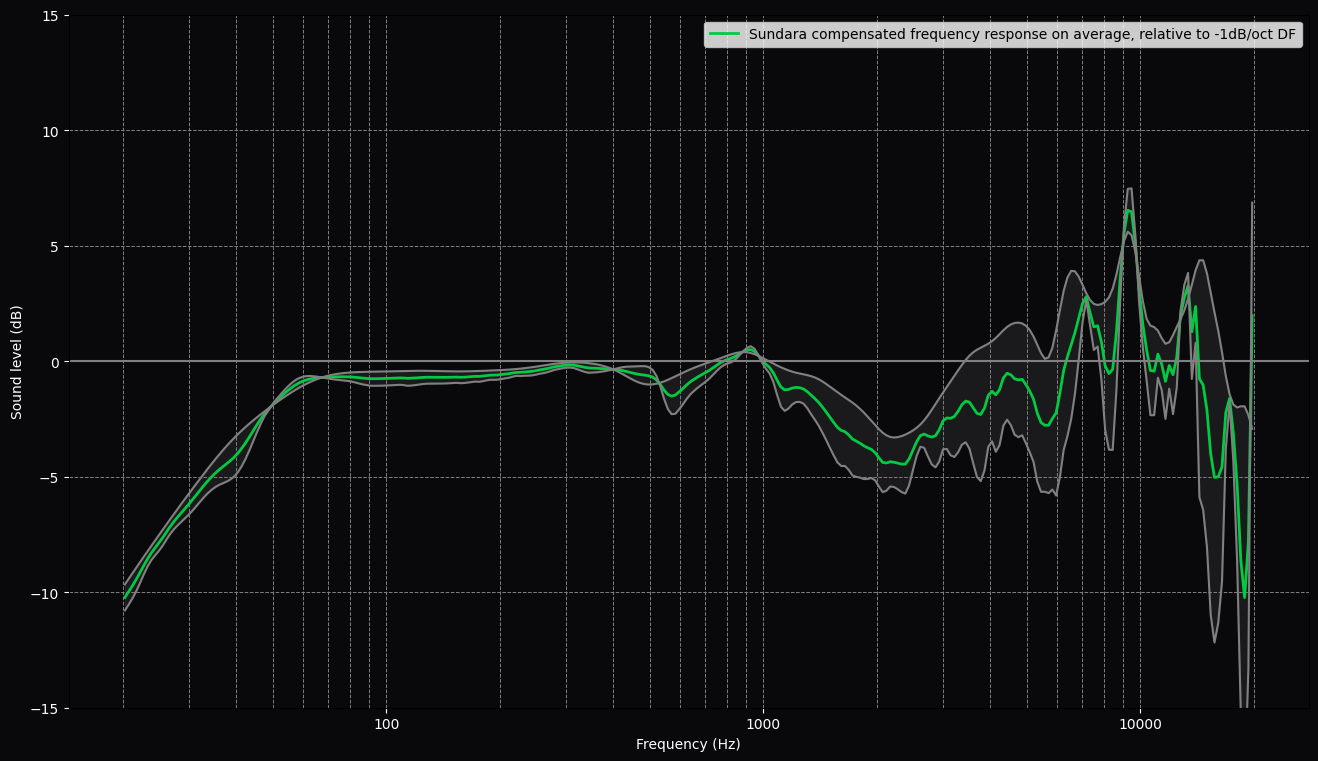
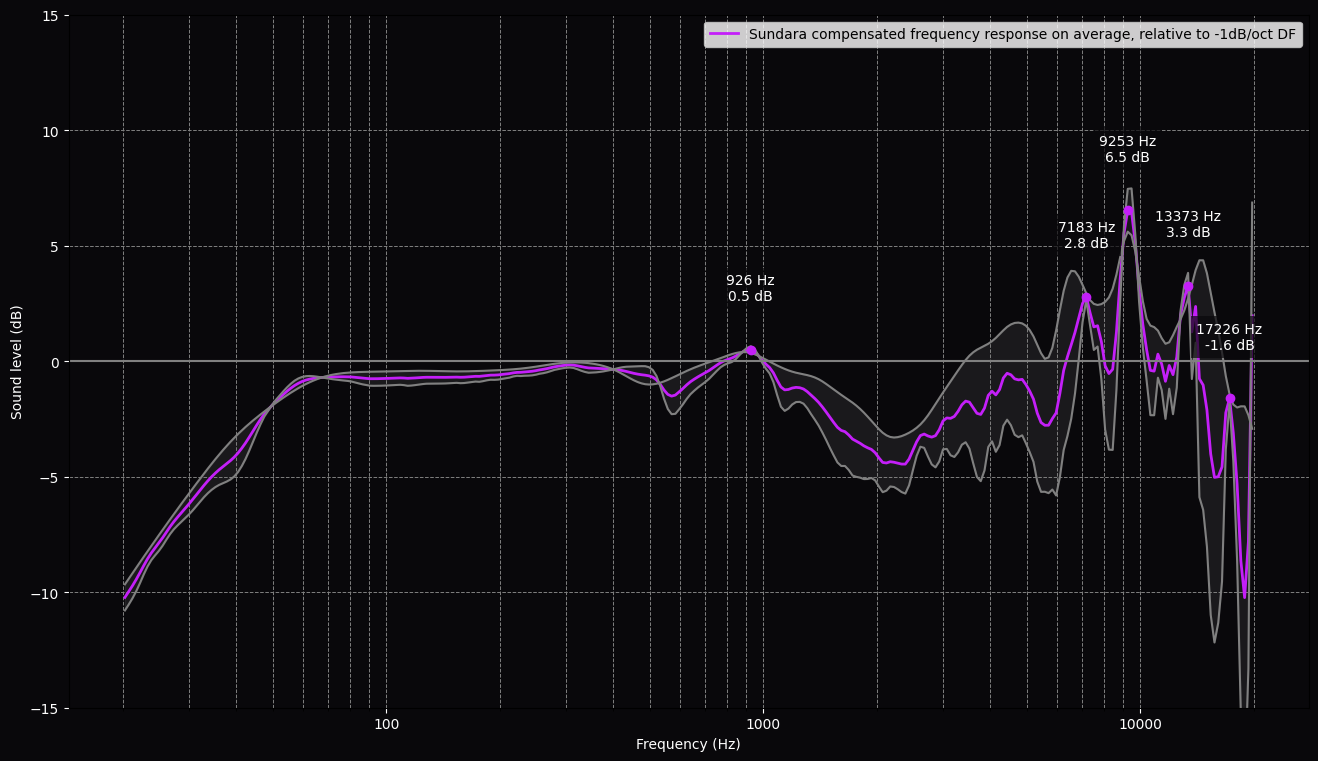
Add peak frequencies to the frequency response plot

diff --git a/app/plot.py b/app/plot.py
@@ -4,6 +4,7 @@ import matplotlib.ticker as ticker
 from random import uniform, random
 import colorsys
 from typing import Tuple
+from scipy.signal import find_peaks
 
 from config import BACKGROUND_COLOR, Y_AXIS_SCALE
 
@@ -25,7 +26,9 @@ def plot(
     phone_name: str = "",  # If only one label needed (e.g: centered delta)
     center_y_axis: bool = True,
     add_x_axis_line: bool = False,
-    uncertainties: list[Tuple[np.ndarray, np.ndarray]] = []
+    uncertainties: list[Tuple[np.ndarray, np.ndarray]] = [],
+    show_peaks: bool = False,
+    peak_prominence: float = 3.0
 ) -> None:
     """Plots a frequency-response curve."""
     # Center the phones
@@ -115,5 +118,27 @@ def plot(
 
     # Legend
     ax.legend()
+
+    # Detect peaks
+    if show_peaks:
+        peak_indices, _ = find_peaks(dbs, prominence=peak_prominence)
+        for p in peak_indices:
+            peak_freq = frequencies[p]
+            peak_val = dbs[p]
+            ax.plot(peak_freq, peak_val, "o", color=phone_color)
+            ax.text(
+                peak_freq,
+                peak_val + 2,
+                f"{peak_freq:.0f} Hz\n{peak_val:.1f} dB",
+                color="white",
+                ha="center",
+                va="bottom",
+                fontsize=10,
+                bbox=dict(
+                    facecolor=BACKGROUND_COLOR,
+                    alpha=0.7,
+                    edgecolor='none'
+                )
+            )
 
     plt.show()

diff --git a/main.py b/main.py
@@ -83,5 +83,6 @@ plot(
     phone_list=[tilted_average],
     add_x_axis_line=True,
     uncertainties=[(tilted_gras[0], tilted_average[1]+divided_delta_db),
-                   (tilted_gras[0], tilted_average[1]-divided_delta_db)]
+                   (tilted_gras[0], tilted_average[1]-divided_delta_db)],
+    show_peaks=True
 )
